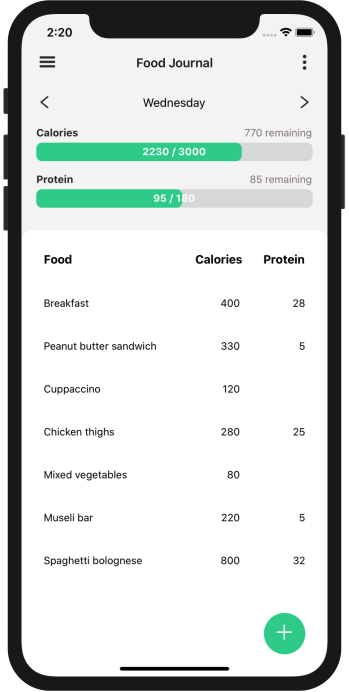
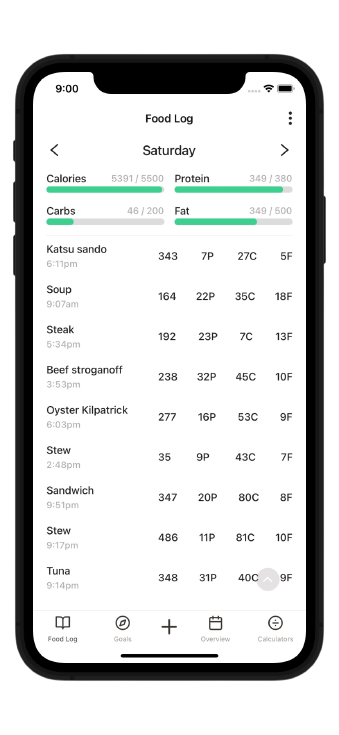
Updated README.

diff --git a/README.md b/README.md
@@ -4,7 +4,7 @@
 [![Repo Link](https://img.shields.io/badge/Repo-Link-black.svg)](https://github.com/RhyG/nutrition-tracker-app)
 [![Coverage](/badge.svg)](https://github.com/RhyG/nutrition-tracker-app) -->
 
-A dead simple daily calorie and protein tracker. Built because all the other apps were overkill for someone who doesn't want to create an account, track graphs and generally has a good idea what the nutritional profile of their food is.
+A dead simple daily macros tracker. Built because all the other apps were overkill for someone who doesn't want to create an account, track graphs and generally has a good idea what the nutritional profile of their food is.
 
 <br />
 
@@ -15,10 +15,11 @@ A dead simple daily calorie and protein tracker. Built because all the other app
 
 ## Features
 
-- Set daily calorie and protein goals
-- Track daily progress
-- Log and save food
-- Convert between kj and calories
+- Set daily macronutrient goals.
+- Track daily progress.
+- Log and save foods.
+- Convert between kj and calories.
+- TDEE calculator.
 
 ## Stack
 
